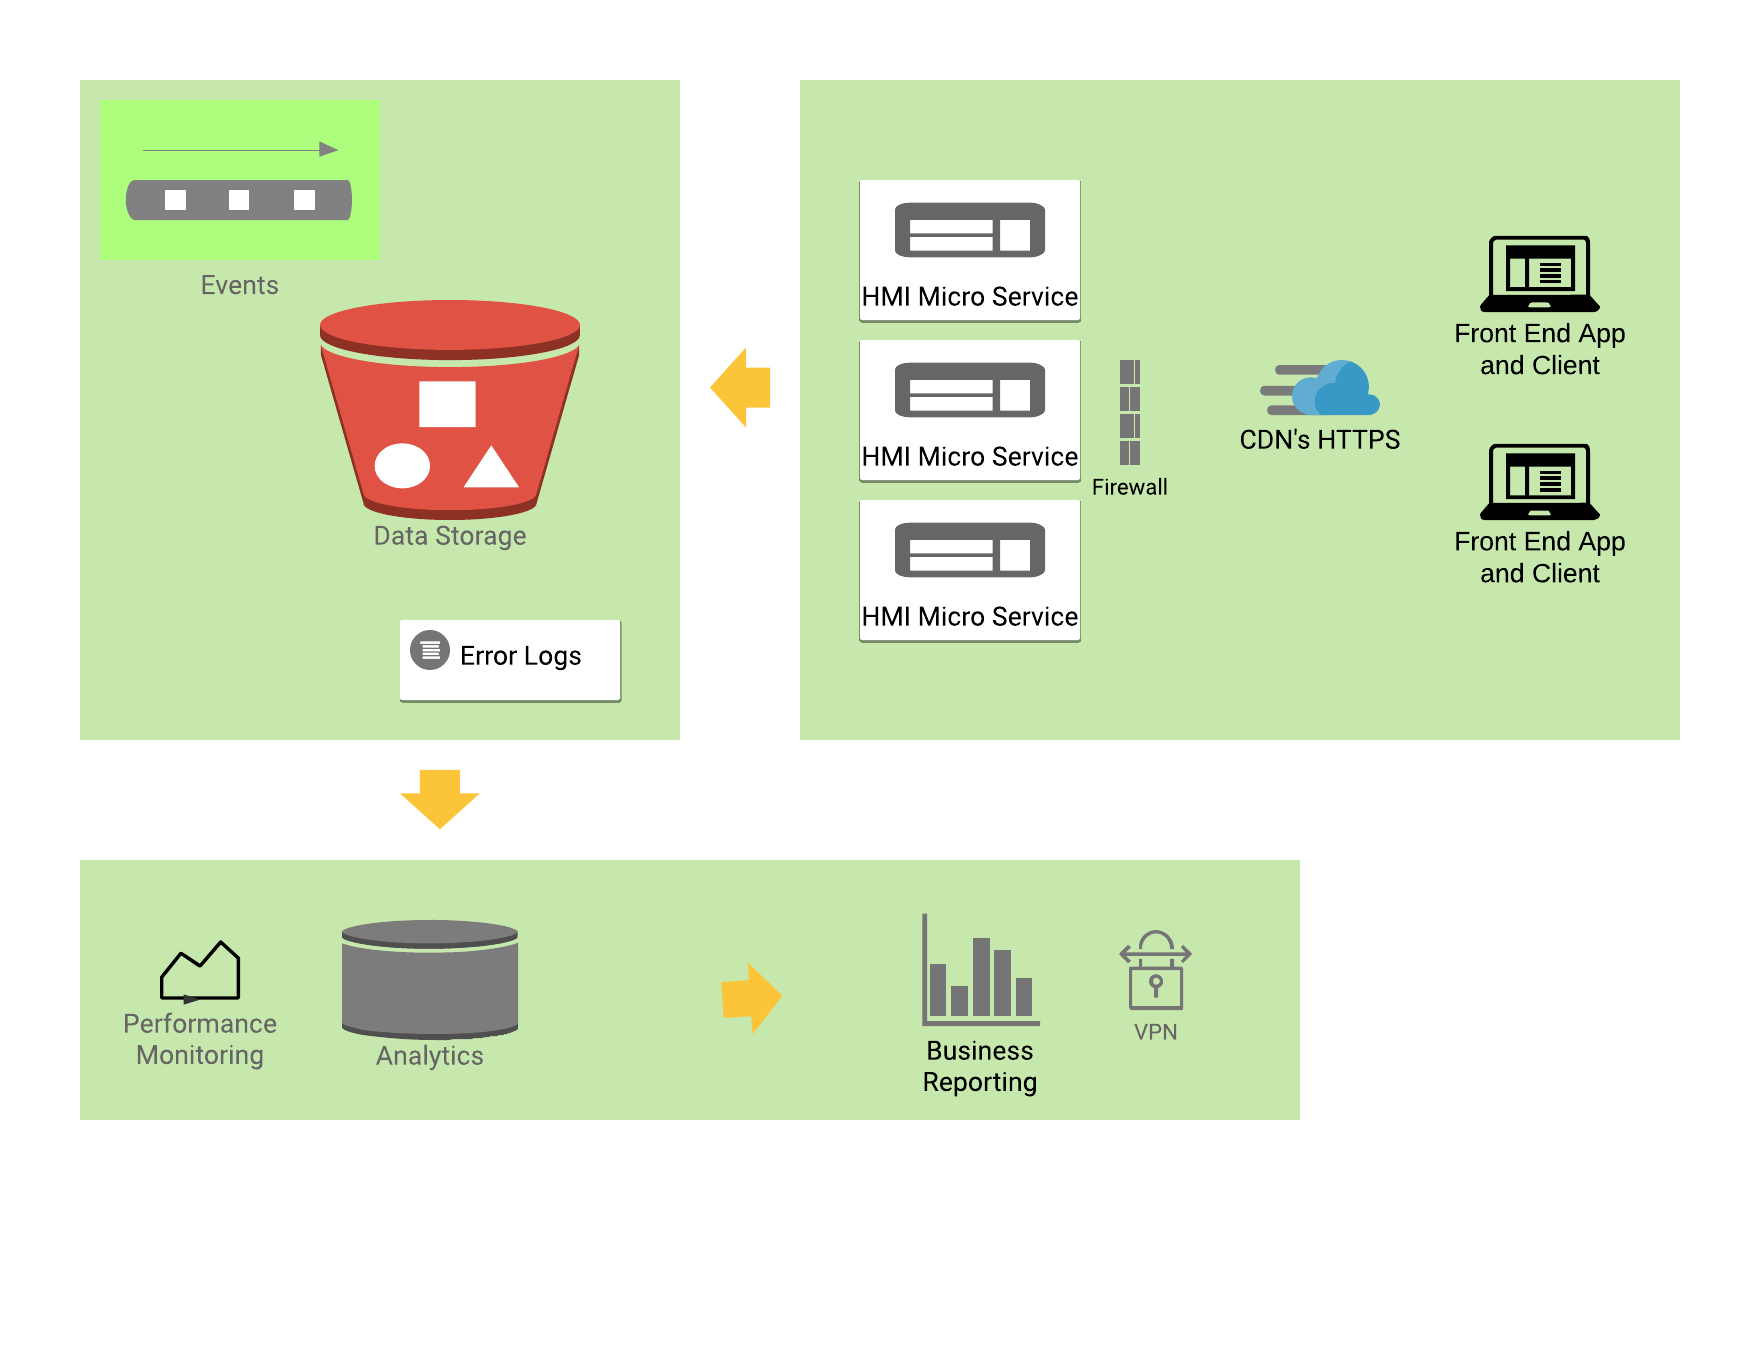
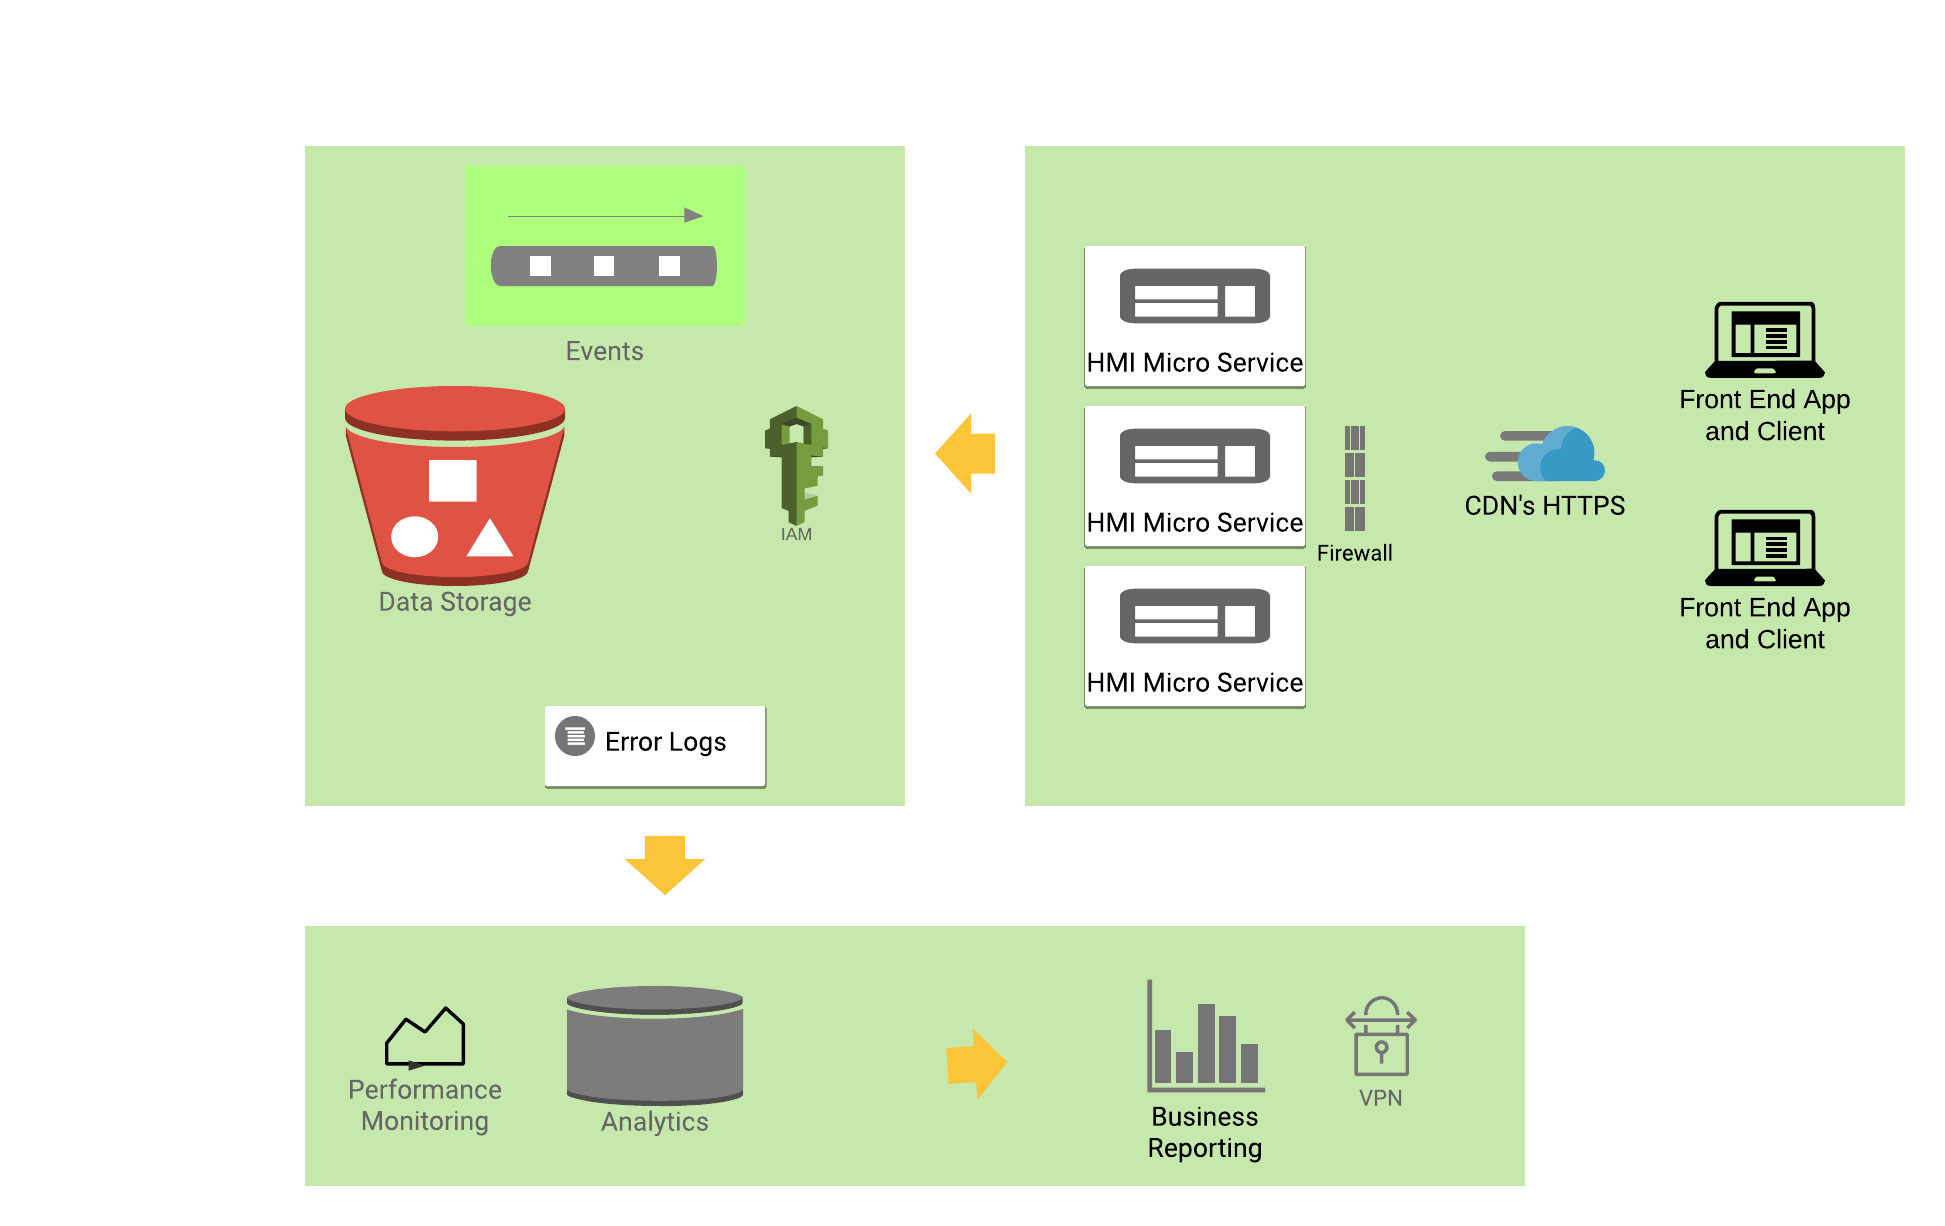
f

diff --git a/docs/2020.md b/docs/2020.md
@@ -1,6 +1,6 @@
 
 # Java ecosystem's 10 New Best Practices for the 2020s 
-#### (title continued...) for back end / data engineering, relative to Java from 2000s and 2010s.
+#### for back end / data engineering, relative to Java from 2010s.
 by Vic Cekvenich
 
 Summary: There are some radical differences in today's Java ecosystem relative to the prior decade. The listed difference add up to a difference in kind, not a difference in degree. We have achieved an order of magnitude improvement with the new adjustments in our development. The list has 10 points in 4 pages, including code examples.
@@ -29,20 +29,24 @@ NOTE: I list vendors only to illustrate and clarify, I'm sure your favorite vend
 
 #### Data Storage section
 
+- The main part is an events provider, so that we can implement some variation of an event driven architecture. Kafka (eg. Instaclustr), ActiveMQ, ZeroMQ, PubNub.  Consider starting with PubNub. 
+
+- Also Auth/IAM (KeyCloak or please-open.it), is in the data section.
+
 - Here we have object storage (in petabytes or more) and SQL storage.  Object storage(key-value, where value is a list of rows) is typically S3 (Hadoop), there are dozens of S3 vendors, eg. Vultr).<br />
 
 The benefit of object store 
 is faster development iteration, since there is no schema. You can just write JSON lists of rows to S3. Likely you'd have more than one object storage service locations(eg: USA, EU, APAC), to be regulation compliant. The benefit of SQL is: easy to get data out. You need both.
 
-- The other main part is an events provider, so that we can implement some variation of an event driven architecture. Kafka (eg. Instaclustr), ActiveMQ, ZeroMQ, PubNub( consider starting with PubNub ). 
+
 <br />
 I won't go into variations of event driven application architectures. Simplistically, app micro services generate a meta event on a aggregate of CRUD|business operations in sequence,  and analytics get updated. (and async, analytics generates an event that it computed, so micro services are notified of the new segment predictions for them to store in their local RAM)
 Consider governors in event generators, such as debounce; and keep each event size smallish.  
 <br />
 
+
 - Also, here we have our app logs. (eg: ELK by Logzio). Use of logs includes debugging and error monitoring.
 - And if there is a Blockchain | Hyperledger use case, consider implementing it as PGP. 
-- Also if you use Active Directory(eg. Jumpcloud) or SAML auth, that is also in the data section.
 
 Note: Check out the helpfull reference section at the link related to data storage.
 
@@ -171,7 +175,7 @@ And that calls this class:
 ```
 The helper functions convert the java.util.List of rows into an InputStream, because S3 is implemented as a Hadoop file system. Once stored, we can later search our lists via 'path'. Also, there are some evolving data services: SQL built on top of of Object Store|K-V.
 
-There are many cloud service in addition to S3, too many to list. Some example I like include ELK in the cloud by https://logz.io/platform, SigmaComputing for DataViz, PubNub for ESB, AWS Amplify for Auth, Netify Forms API for low-code, algolia search, etc. Everyday there are more ways to leverage the cloud to improve capabilities, increase business flexibility and reduce costs. 
+There are many cloud service in addition to S3, too many to list. Some example I like include ELK in the cloud by https://logz.io/platform, SigmaComputing for DataViz, PubNub for ESB, please-open.it for Auth, Netify Forms API for low-code, algolia search, etc. Everyday there are more ways to leverage the cloud to improve capabilities, increase business flexibility and reduce costs. 
 
 
 ## #4: DB in RAM Memory
